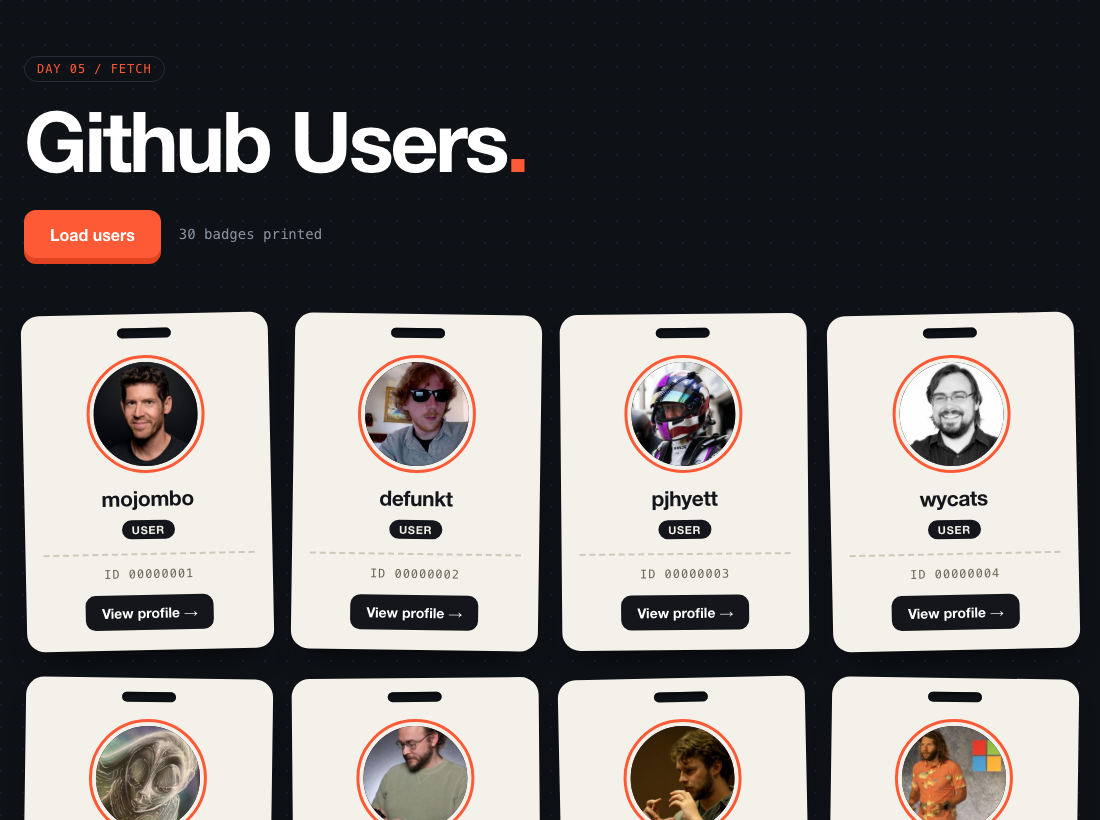
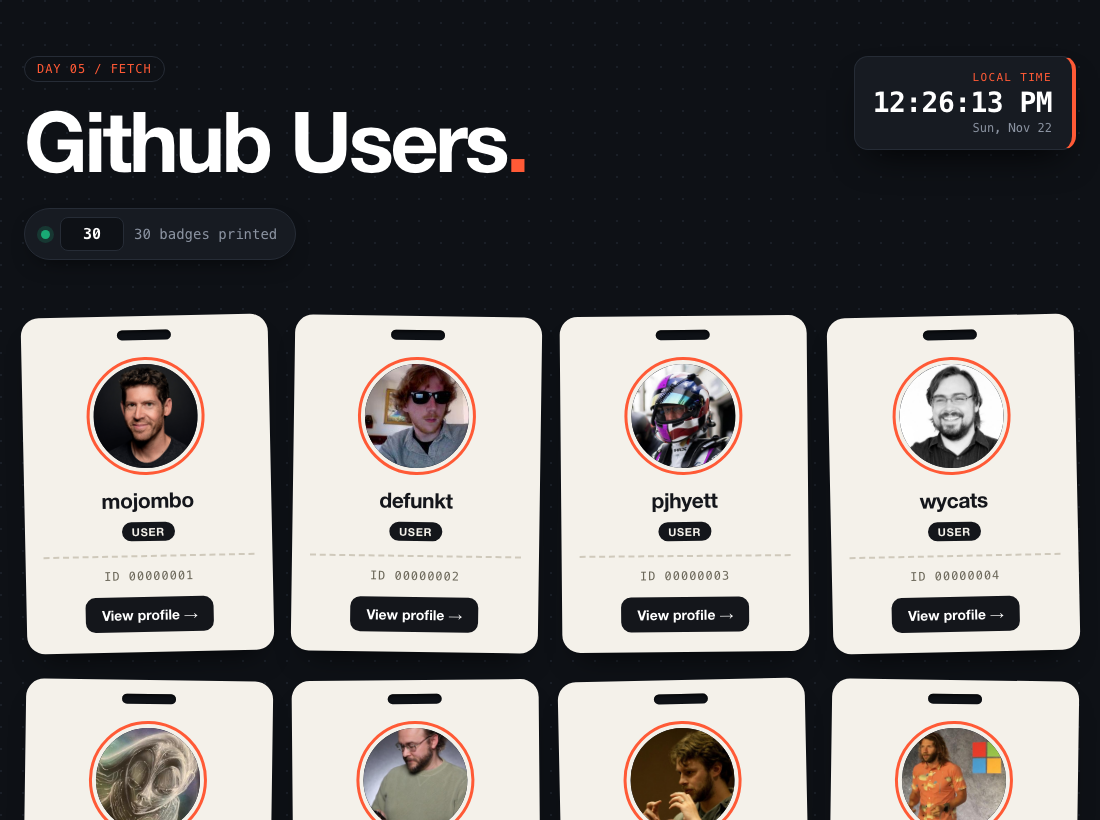
REACT | readme update

diff --git a/README.md b/README.md
@@ -1,0 +1,59 @@
+# React Learnings
+
+My day-by-day React journal. Each day is its own small Vite + React project with its own `package.json`, code, screenshot and notes. Every day also gets a different look, so the UIs don't blend together.
+
+## Days at a glance
+
+| Day | Topic | Screenshot |
+|---|---|---|
+| [Day 01](./Day-01) | Hello World: Vite setup, components, JSX | <a href="./Day-01"><img src="./Day-01/screenshot.png" width="260" alt="Day 01"></a> |
+| [Day 02](./Day-02) | Components, props, `children`, lists and `key` | <a href="./Day-02"><img src="./Day-02/screenshot.png" width="260" alt="Day 02"></a> |
+| [Day 03](./Day-03) | `useState`: counter, toggle, todo app | <a href="./Day-03"><img src="./Day-03/screenshot.png" width="260" alt="Day 03"></a> |
+| [Day 03 practice](./Day-03-practice) | Step counter, FAQ accordion, todo with clear-completed | <a href="./Day-03-practice"><img src="./Day-03-practice/screenshot.png" width="260" alt="Day 03 practice"></a> |
+| [Day 04](./Day-04) | Forms, validation, modal, search and filter (library) | <a href="./Day-04"><img src="./Day-04/screenshot.png" width="260" alt="Day 04"></a> |
+| [Day 04 practice](./Day-04-practice) | Product catalog: sort, filter, add-product modal | <a href="./Day-04-practice"><img src="./Day-04-practice/screenshot.png" width="260" alt="Day 04 practice"></a> |
+| [Day 05](./Day-05) | `useEffect`: GitHub users fetch and a live clock | <a href="./Day-05"><img src="./Day-05/screenshot.png" width="260" alt="Day 05"></a> |
+| [Day 05 practice](./Day-05-practic3e) | Users, posts and comments: fetch states, retry, debounce | <a href="./Day-05-practic3e"><img src="./Day-05-practic3e/screenshot.png" width="260" alt="Day 05 practice"></a> |
+
+## How the concepts build on each other
+
+1. **Day 01: the basics.** A component is a function that returns JSX, and `createRoot` mounts it.
+2. **Day 02: props.** Data flows down from parent to child, and lists are rendered with `.map()` and a stable `key`.
+3. **Day 03: state.** `useState` and immutable updates (`map`, `filter`, spread). Controlled inputs, lifting state up, and derived values like "2 of 4 done".
+4. **Day 04: forms and filtering.** One state object for a whole form, validation, filters, search, sorting without mutating state, and a modal with an Escape key listener.
+5. **Day 05: side effects.**
+   - `useEffect` with a dependency array, async fetching, and cleanup (`AbortController`, `clearTimeout`, `clearInterval`).
+   - Loading, error and empty states, a retry with a limit, and a debounced search.
+   - Master-detail views: user, then posts, then comments.
+
+## Running a project
+
+Every day is independent:
+
+```bash
+cd Day-05-practic3e      # or any other Day-XX folder
+npm install
+npm run dev
+```
+
+Then open the local URL Vite prints (usually http://localhost:5173).
+
+## Folder layout
+
+```
+React/
+├── Day-01/ … Day-05-practic3e/
+│   ├── src/
+│   │   ├── App.jsx
+│   │   ├── Components/
+│   │   └── index.css
+│   ├── screenshot.png      what the UI looks like
+│   ├── README.md           what I learned that day
+│   └── package.json
+└── README.md               this file
+```
+
+## Notes
+
+- Day 05 uses the GitHub public API. It is limited to about 60 requests per hour per IP address, so too many reloads can make the fetch fail.
+- Day 05 practice uses [JSONPlaceholder](https://jsonplaceholder.typicode.com), a free fake API for testing.
